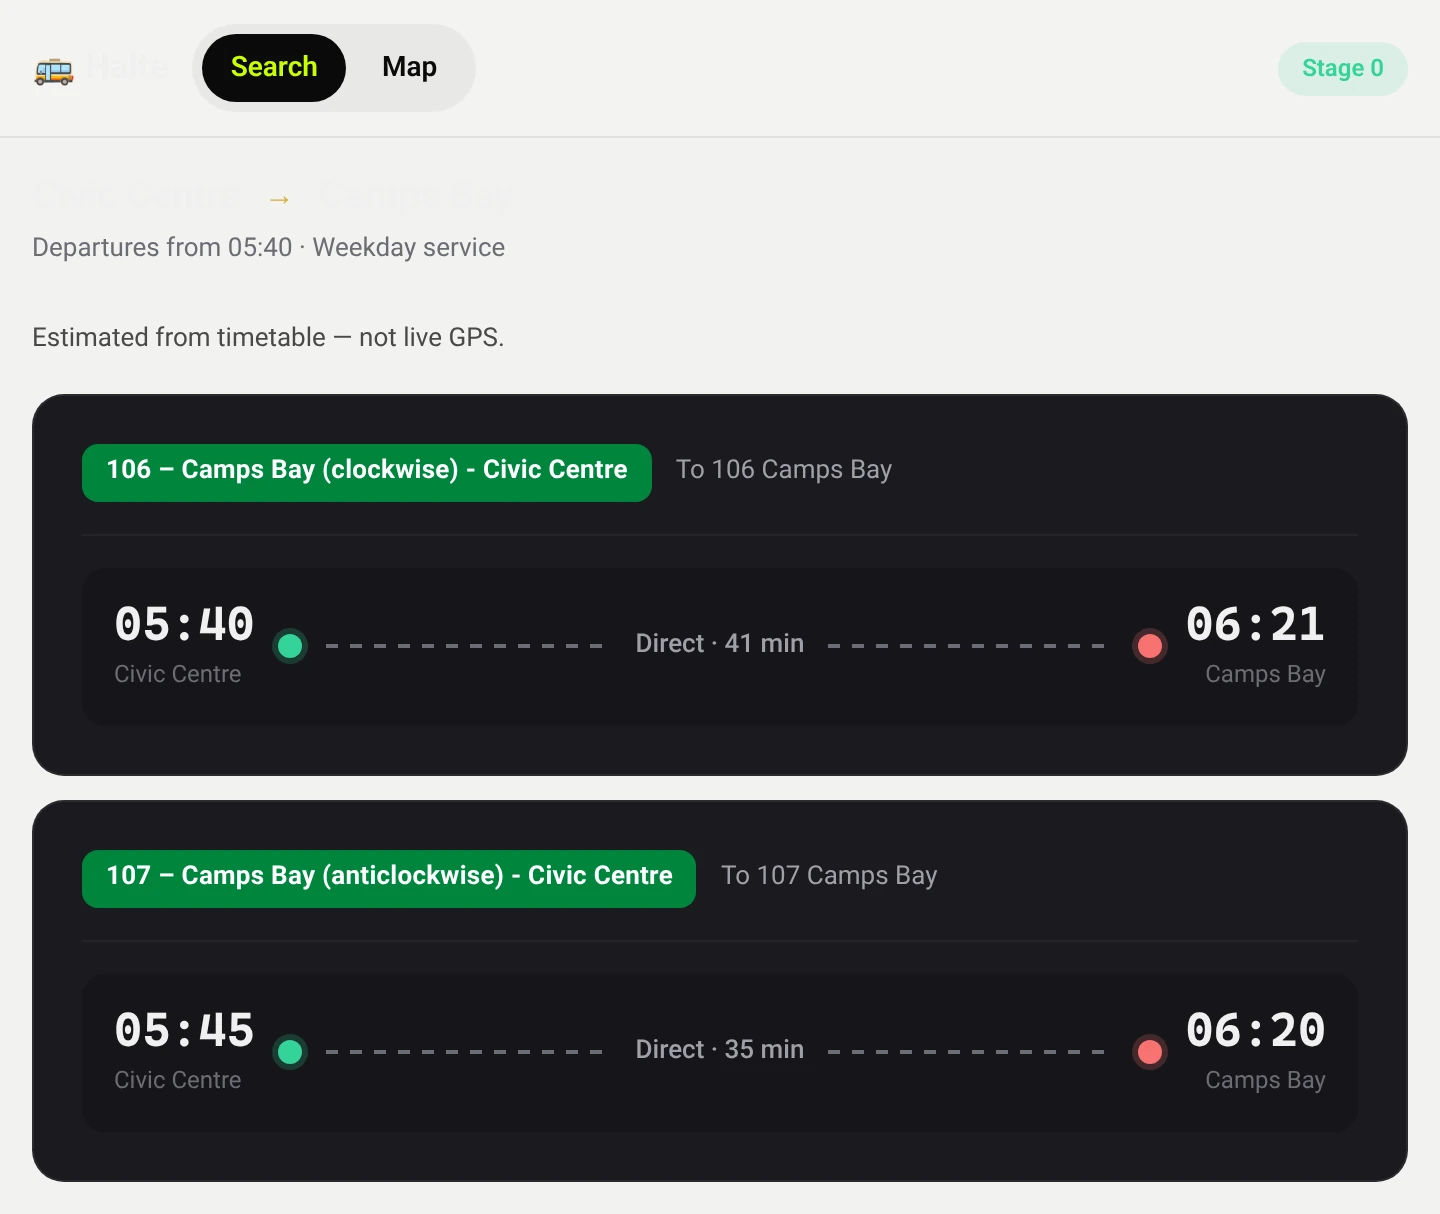
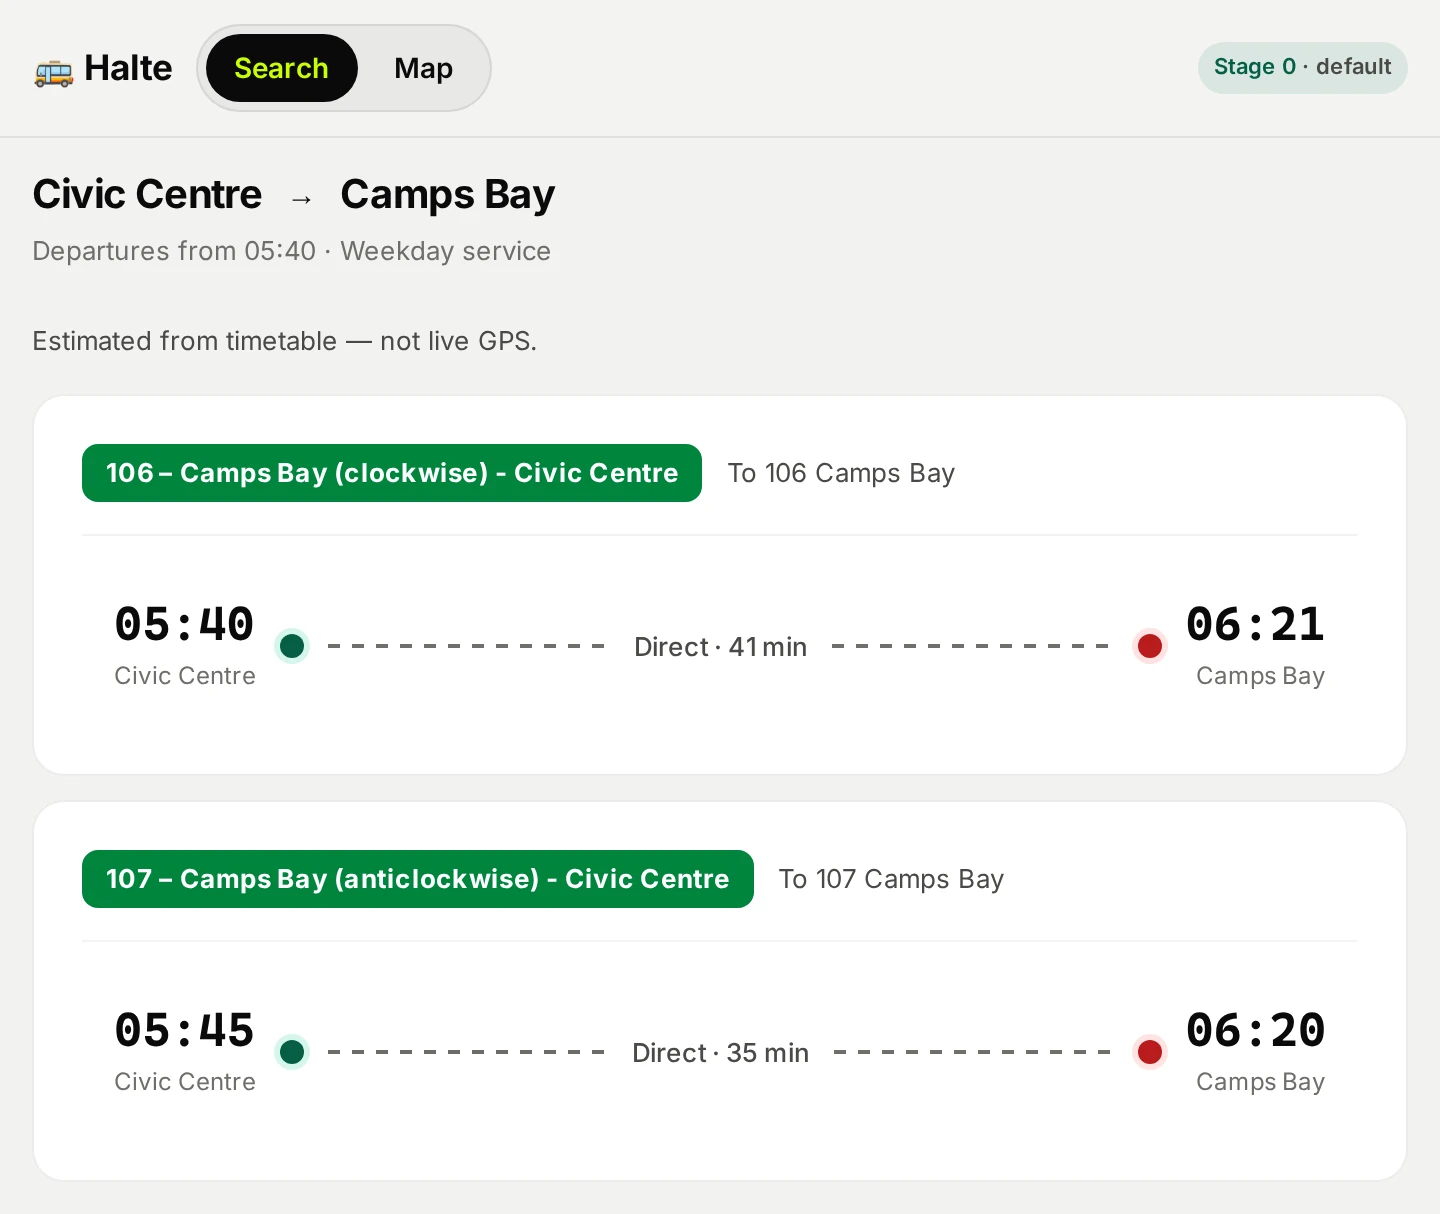
fix: hero mockup badge reads Stage 0 · default
Regenerate landing-search.webp with the phone short-form badge text
exactly as the app renders it (same real times and 1440×1214 crop).

diff --git a/fastapi_app/templates/pages/landing.html b/fastapi_app/templates/pages/landing.html
@@ -60,6 +60,7 @@
             width="720"
             height="520"
             alt="Halte journey search showing departures"
+            data-stage-badge="Stage 0 · default"
             loading="eager"
             decoding="async">
         </div>

diff --git a/tests/test_landing.py b/tests/test_landing.py
@@ -149,6 +149,8 @@ def test_hero_mockup_image_exists(client):
     html = client.get("/").text
     assert "landing-search.webp" in html
     assert 'alt="Halte journey search showing departures"' in html
+    # Hero crop must show the phone short-form badge exactly as the app renders it.
+    assert 'data-stage-badge="Stage 0 · default"' in html
     img = client.get("/static/img/landing-search.webp")
     assert img.status_code == 200
     assert img.content[:4] == b"RIFF" or img.headers["content-type"].startswith("image/")
